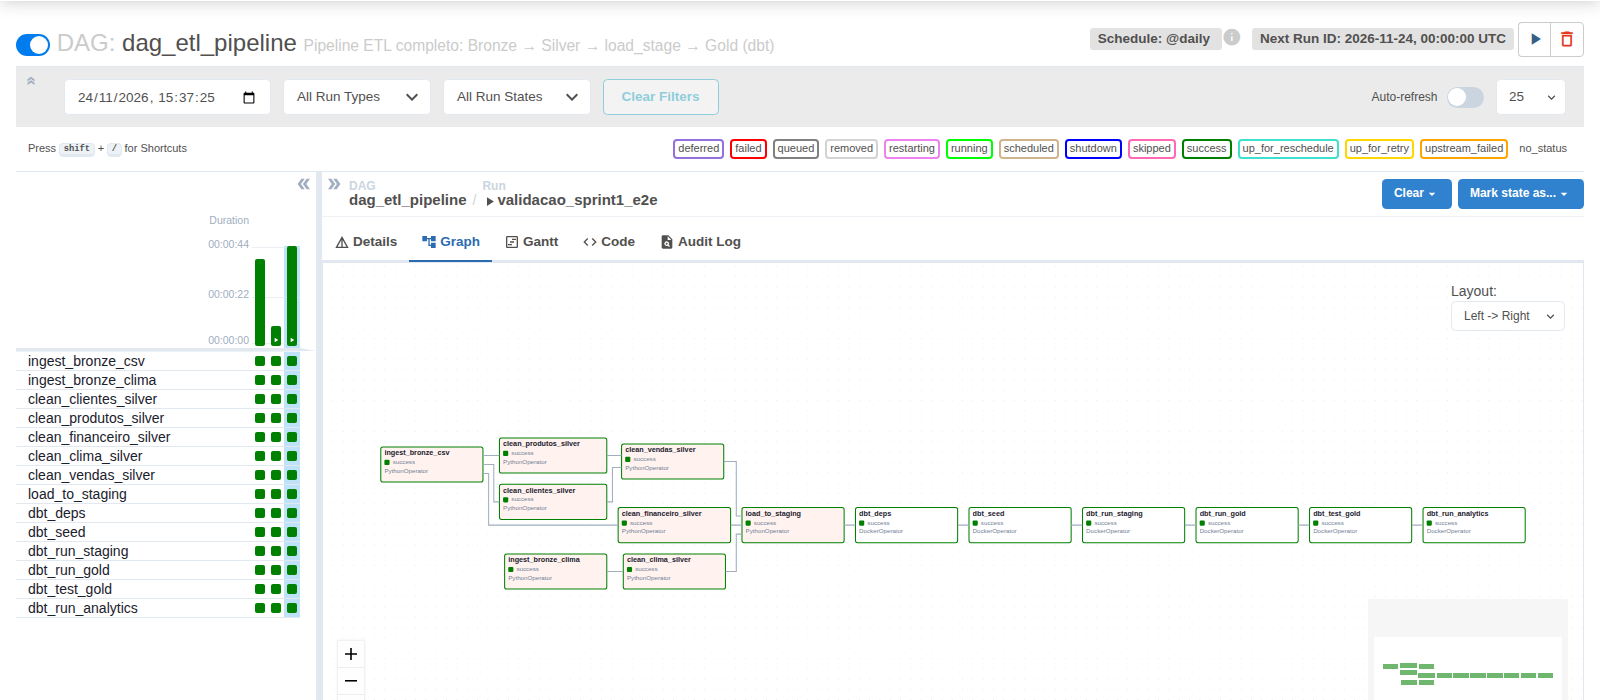
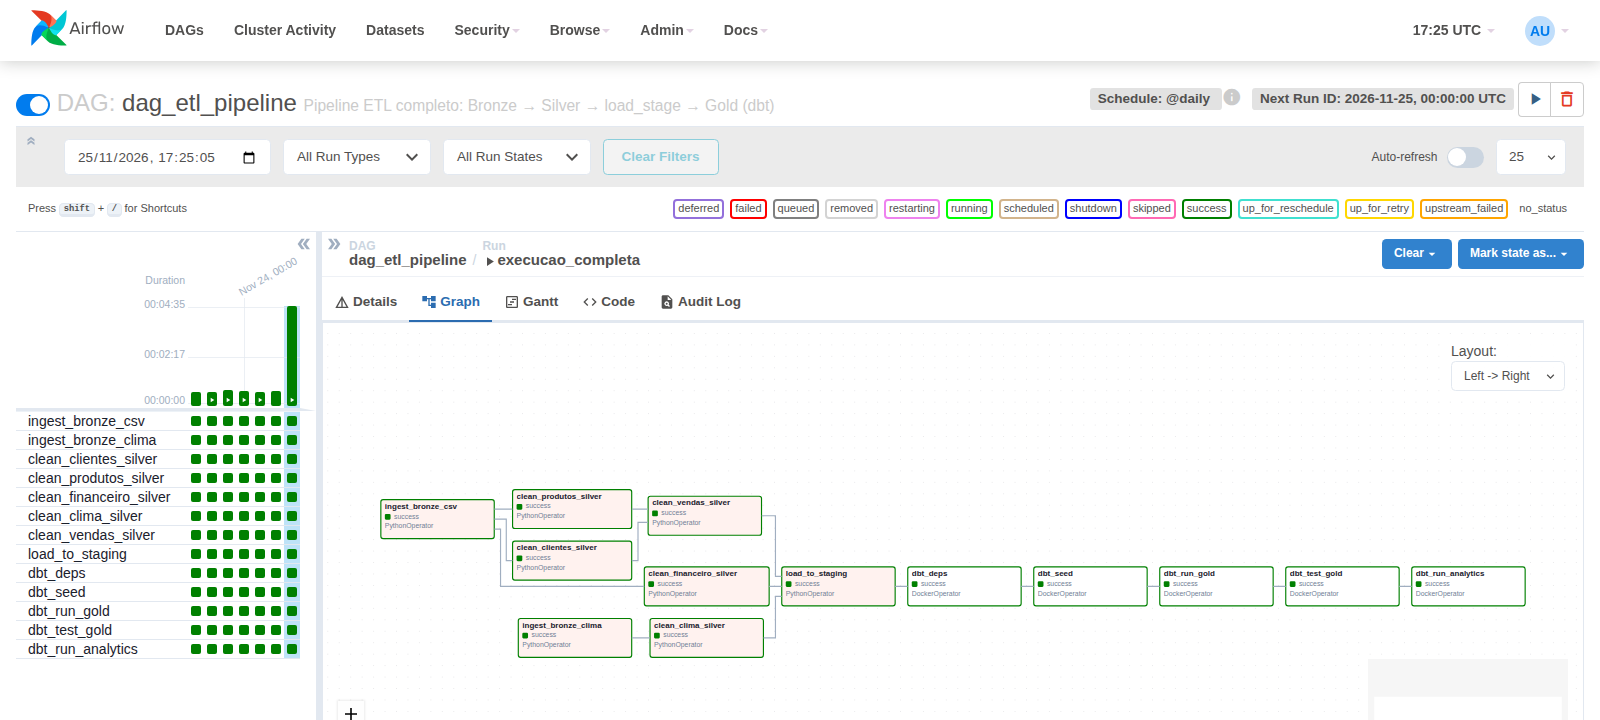
fix: handle pre-existing Silver, load_stage and fact state during migration

diff --git a/pipeline/common/merge.py b/pipeline/common/merge.py
@@ -15,7 +15,8 @@ Regras do merge, por chave natural:
   3. `_changed_at` é preservado quando o hash da versão vencedora é igual ao do estado atual.
      Como cada dia reingere o snapshot inteiro, é isso que torna o incremental do dbt realmente
      incremental (D3 da Sprint 3);
-  4. linha que some da origem permanece na Silver: o merge nunca apaga.
+  4. linha que some da origem permanece na Silver: o merge nunca apaga;
+  5. coluna que o código deixou de produzir sai do estado (evolução de schema).
 """
 
 import pandas as pd
@@ -52,9 +53,11 @@ def _com_controle(atual: pd.DataFrame) -> pd.DataFrame:
     """Silver gravada antes do ARQ-01 não tem as colunas de controle: completa sem perder dados.
 
     Toda linha antiga recebe a data lógica mais antiga possível (qualquer partição nova a supera) e
-    `_changed_at` = `_ingested_at`.
+    `_changed_at` = `_ingested_at`. Se a tabela antiga nem tinha `_ingested_at`, vale 1970-01-01.
     """
     atual = atual.copy()
+    if "_ingested_at" not in atual:  # ex.: a Silver de financeiro não guardava a coluna
+        atual["_ingested_at"] = pd.Timestamp(0)
     if "_logical_date" not in atual:
         atual["_logical_date"] = "0000-00-00"
     if "_row_hash" not in atual:
@@ -78,6 +81,10 @@ def merge_state(atual: pd.DataFrame | None, novo: pd.DataFrame, key: list[str]) 
         return novo.sort_values(key, kind="mergesort").reset_index(drop=True)
 
     atual = _datas_em_ns(_com_controle(atual))
+    # Coluna que o código deixou de produzir (ex.: `receita_liquida`, movida para o dbt) sai do estado,
+    # senão a Silver antiga a carregaria para sempre.
+    obsoletas = [c for c in atual.columns if c not in novo.columns and c != "_origem"]
+    atual = atual.drop(columns=obsoletas)
     atual["_origem"] = 0
     novo["_origem"] = 1  # empate total: a linha da execução corrente vence
 

diff --git a/tests/unit/test_merge.py b/tests/unit/test_merge.py
@@ -127,6 +127,24 @@ class TestMergeState:
         assert resultado["_logical_date"].notna().all()
         assert changed_at(resultado)["a"] == T1  # linha antiga sem mudança mantém o _changed_at
 
+    def test_silver_antiga_sem_ingested_at_tambem_e_aceita(self):
+        """A Silver de financeiro anterior ao ARQ-01 não tinha `_ingested_at` (achado no ambiente real)."""
+        legado = pd.DataFrame({"id": ["a", "b"], "valor": ["1", "2"]})
+        resultado = merge.merge_state(legado, lote("2026-01-02", T2, b="2-novo", c="3"), KEY)
+        assert dados(resultado) == {"a": "1", "b": "2-novo", "c": "3"}
+        assert resultado["_ingested_at"].notna().all()
+        assert changed_at(resultado)["a"] == pd.Timestamp(0)  # sem mudança: mantém a data mínima
+        assert changed_at(resultado)["b"] == T2  # alterada: avança
+
+    def test_coluna_que_o_codigo_deixou_de_produzir_sai_do_estado(self):
+        """A Silver de vendas anterior ao ARQ-04 ainda tinha `receita_liquida` (achado no ambiente real)."""
+        legado = merge.merge_state(None, lote("2026-01-01", T1, a="1", b="2"), KEY).assign(
+            receita_liquida=9.9
+        )
+        resultado = merge.merge_state(legado, lote("2026-01-02", T2, b="2-novo"), KEY)
+        assert "receita_liquida" not in resultado.columns
+        assert dados(resultado) == {"a": "1", "b": "2-novo"}
+
     def test_nao_altera_os_dataframes_de_entrada(self):
         atual = merge.merge_state(None, lote("2026-01-01", T1, a="1"), KEY)
         novo = lote("2026-01-02", T2, a="2")

diff --git a/docs/backlog/SPRINT-03.md b/docs/backlog/SPRINT-03.md
@@ -236,6 +236,14 @@ Nenhuma variável nova no `.env`. Mudanças:
 6. Os números de referência da Sprint 2 (3.482 / 18 / 5 / 75 testes dbt / R$ 597.343,23) inalterados.
 7. README atualizado (backfill, lookback, limpeza das partições antigas, `audit.dq_results`).
 
+**Resultado da validação no ambiente real (25/11/2026).** A DAG rodou no Airflow real, sobre um ambiente com estado da Sprint 2 (Silver, `load_stage` e fato antigos), com o run `execucao_completa`: **13 de 13 tasks verdes**. O ambiente antigo expôs três falhas de **migração** que o e2e, que sempre parte do zero, não podia ver. As três foram corrigidas, com teste:
+
+1. `clean_financeiro_silver`: a Silver de financeiro antiga não tinha a coluna `_ingested_at`, e o merge falhava com `KeyError`. O merge agora aceita a ausência (`merge._com_controle`).
+2. `load_to_staging`: a Silver de vendas antiga ainda trazia `receita_liquida` (movida para o dbt no ARQ-04), e a validação de schema do carregador a barrou. O merge agora descarta colunas que o código deixou de produzir.
+3. `dbt_run_gold`: a `fato_vendas` antiga não tinha `atualizado_em`, e o filtro incremental referenciava a coluna numa subconsulta (o Postgres a lia como coluna da consulta externa e falhava). O modelo agora detecta a ausência da coluna e reprocessa tudo uma vez. O e2e passou a simular essa fato antiga (`drop column`) antes do `dbt build` do dia 2.
+
+Ainda não executados no ambiente real: `airflow dags backfill` de várias datas e a CI no GitHub.
+
 **Definição de pronto de cada card:** critérios do `BACKLOG.md` marcados, testes cobrindo a mudança, e2e com os números de referência e fingerprints conferidos, commit próprio com o ID do card.
 
 ---

diff --git a/README.md b/README.md
@@ -27,7 +27,7 @@ Pipeline de dados **Bronze → Silver → Gold** que transforma arquivos de vend
 
 Capturas da aplicação em um ambiente recriado do zero (`docker compose down -v`).
 
-**Airflow: DAG `dag_etl_pipeline` com todas as tasks concluídas** (a captura é de uma versão anterior, com a task extra `dbt_run_staging`; hoje as views `stg_*` são recriadas dentro da `dbt_run_gold`, e a DAG tem 13 tasks). Bronze e Silver rodam com `PythonOperator`; o dbt roda em containers efêmeros via `DockerOperator`.
+**Airflow: DAG `dag_etl_pipeline` com as 13 tasks concluídas.** Bronze e Silver rodam com `PythonOperator`; o dbt roda em containers efêmeros via `DockerOperator`.
 
 ![DAG no Airflow: grafo de tasks](docs/images/airflow_dag_graph.png)
 
